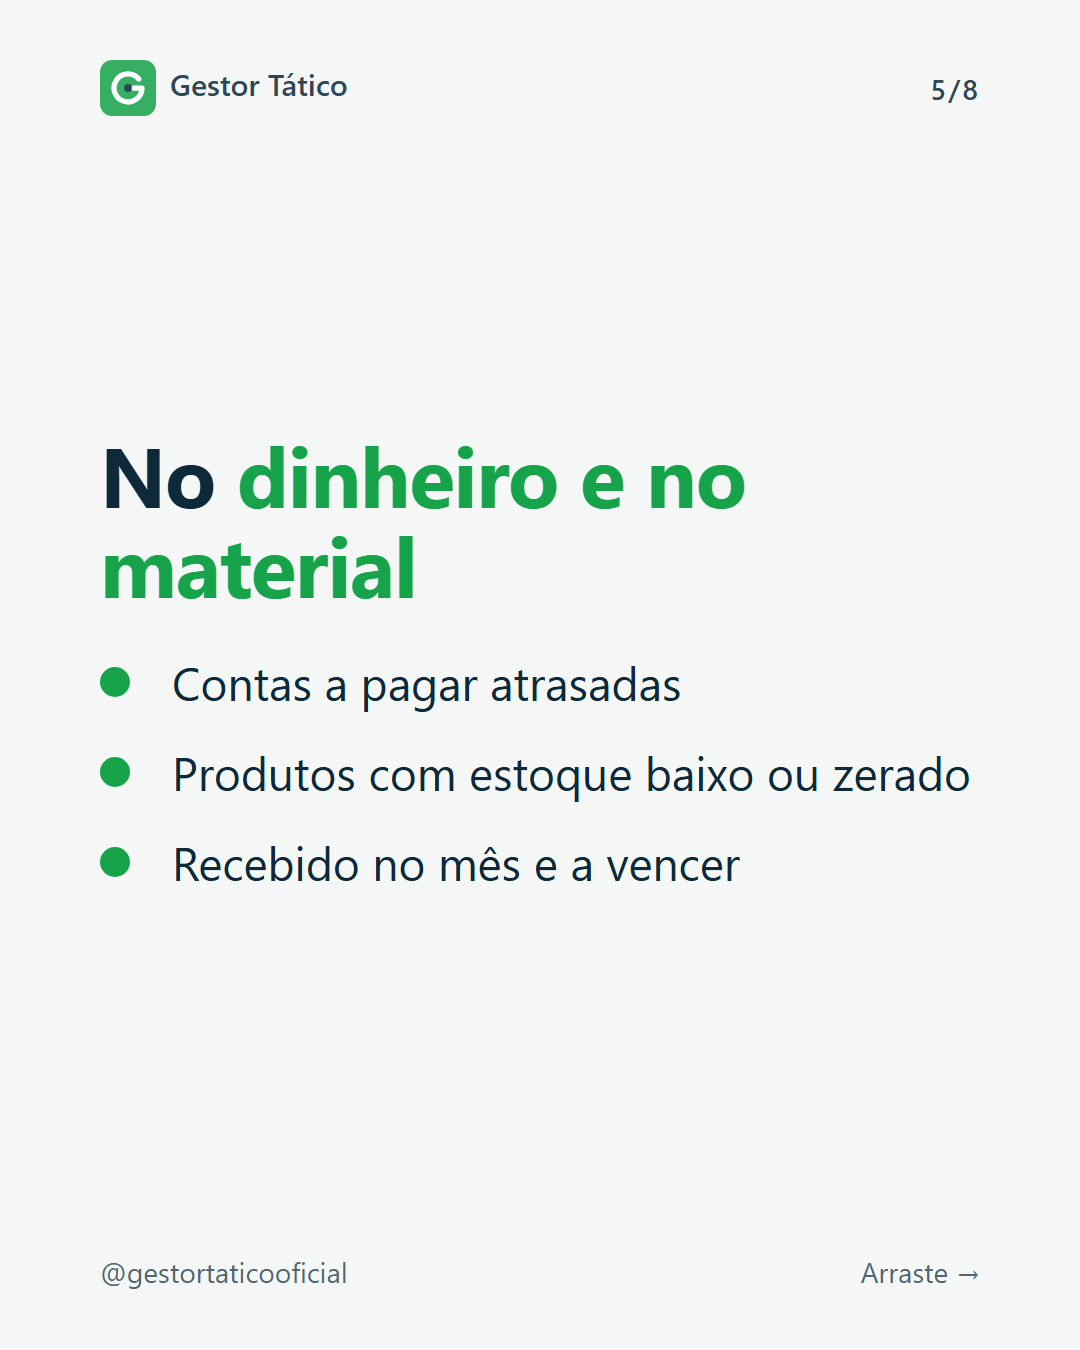
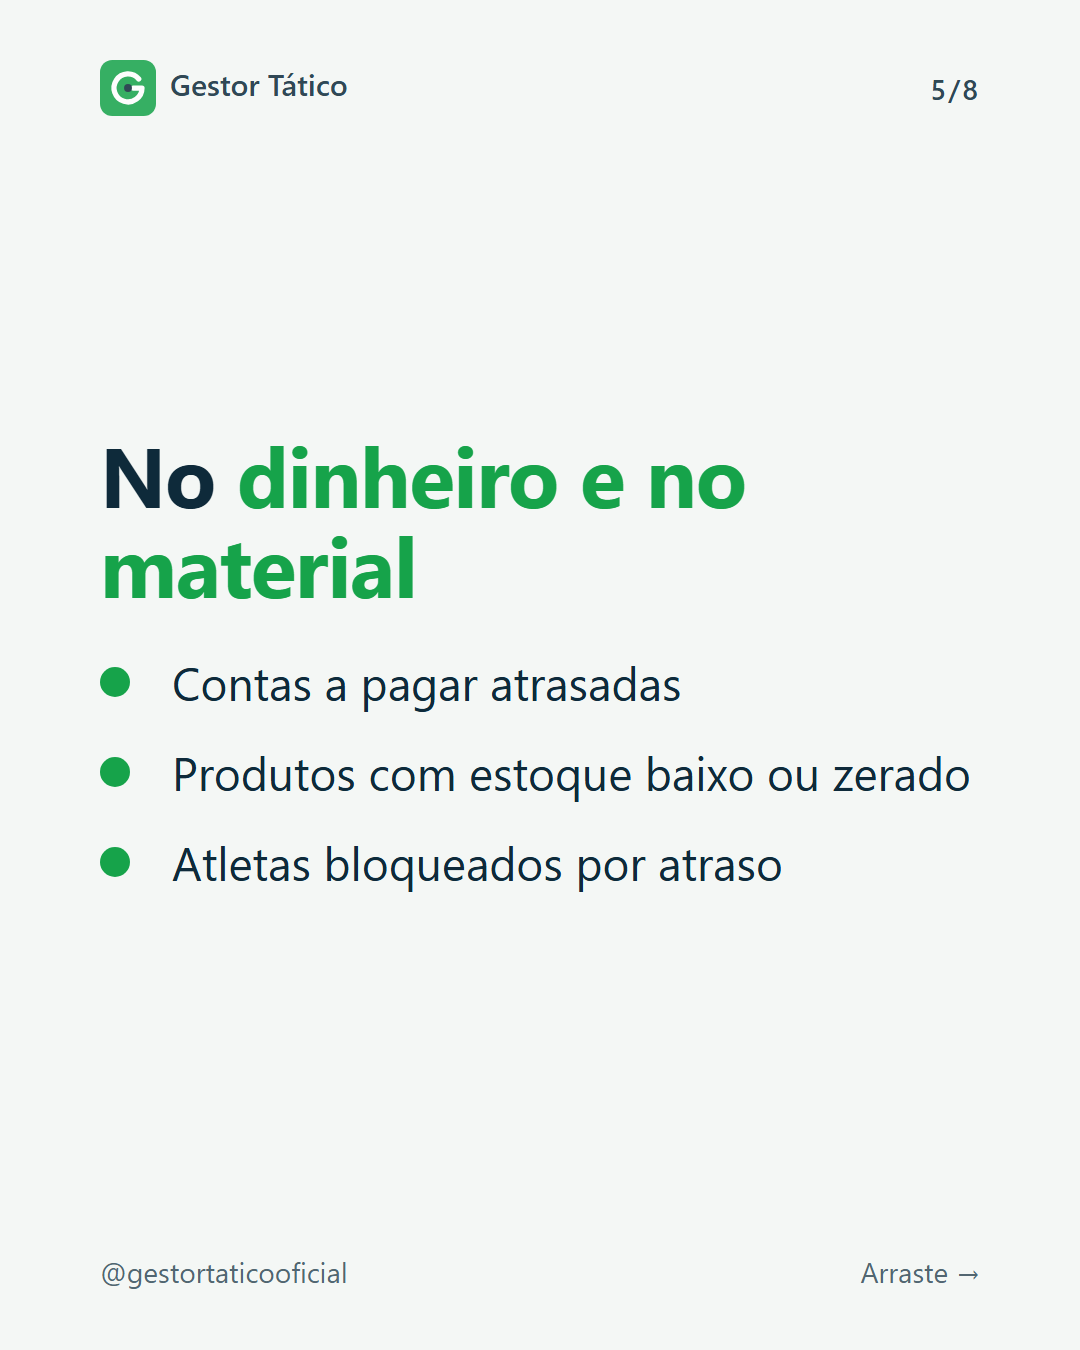
Instagram: semana de 16/11 no calendário e slide 5 do painel com atletas bloqueados

Changed region(s): [[0.1528, 0.6222, 0.7333, 0.6533]]

diff --git a/docs/marca/instagram/decks.js b/docs/marca/instagram/decks.js
@@ -59,7 +59,7 @@ CTA],
 {h:'Problema não avisa <em>quando chega</em>',p:'O atleta some, o atestado vence, a bola acaba, a conta atrasa. Cada coisa mora num caderno, e você descobre tarde.'},
 {t:'claro',h:'Só aparece o que <em>tem ocorrência</em>',p:'O painel lista os alertas do dia. Sem nenhum, mostra que está tudo em dia. Nada de tela cheia de zero.'},
 {h:'No <em>cuidado com os atletas</em>',list:['Atletas com 3 ou mais faltas seguidas','Atestado médico vencido ou perto de vencer','Matrículas aguardando o aceite da família']},
-{t:'claro',h:'No <em>dinheiro e no material</em>',list:['Contas a pagar atrasadas','Produtos com estoque baixo ou zerado','Recebido no mês e a vencer']},
+{t:'claro',h:'No <em>dinheiro e no material</em>',list:['Contas a pagar atrasadas','Produtos com estoque baixo ou zerado','Atletas bloqueados por atraso']},
 {h:'Cada alerta é um <em>atalho</em>',p:'Tocou no aviso, abre a lista já filtrada: os atletas faltosos, os atestados vencidos, os produtos sem estoque.'},
 {t:'claro',h:'Mais de uma <em>unidade</em>?',p:'Veja a visão geral ou escolha uma unidade para recortar o painel.',n:'O estoque e as contas a pagar seguem consolidados, não por unidade.'},
 CTA],

diff --git a/docs/marca/instagram/semanas/2026-11-16/rascunhos.md b/docs/marca/instagram/semanas/2026-11-16/rascunhos.md
@@ -27,7 +27,7 @@ Obs.: a semana de 09/11 já estava coberta (Reel, Portal, Saúde, pergunta); est
 - 3+ faltas seguidas, atestado vencido/vencendo em 30 dias, matrículas aguardando aceite, contas a pagar atrasadas, estoque baixo/zerado → `CLAUDE.md` (Chamada e frequência; Validade do atestado; LGPD termo de matrícula; Dashboard; Estoque).
 - Cada item é link para a tela já filtrada → `CLAUDE.md` ("Filtros por query string").
 - Visão geral × por unidade; estoque e contas seguem consolidados → `CLAUDE.md` (Filtro por Unidade). Dito no slide 7.
-- "Recebido no mês e a vencer" (slide 5) vem dos cartões financeiros do painel; aparecem só para perfis do financeiro. Não é número, é recurso.
+- "Atletas bloqueados por atraso" (slide 5, no lugar de "Recebido no mês e a vencer", trocado em 09/11/2026 porque aquele item só aparece para o financeiro) → `CLAUDE.md` (Bloqueio por atraso; Dashboard → Atenção). **O bloqueio só aparece se o clube configurou os dias de atraso** em Configurações → Financeiro.
 
 ---
 
@@ -83,7 +83,7 @@ Obs.: a semana de 09/11 já estava coberta (Reel, Portal, Saúde, pergunta); est
 
 ## Pendências para o Cleber confirmar
 1. **Estoque é restrito** a Admin, Coordenador e Financeiro (professor/secretaria-treinador não lança). Se a legenda sugerir que o treinador lança saída de bola, não vale. O texto atual não diz isso.
-2. **Slide 5 do painel** ("Recebido no mês e a vencer"): só aparece para quem é do financeiro, não para o professor. Se preferir, troco por outro item.
+2. ~~**Slide 5 do painel**~~ Resolvido em 09/11/2026: o item "Recebido no mês e a vencer" foi trocado por "Atletas bloqueados por atraso" e os PNGs foram reexportados.
 3. **Slide 4 do painel**: "Matrículas aguardando o aceite da família" vale para quem já usa o termo de matrícula no portal.
 4. Os três temas são do segmento clube (campeonato, súmula). Coerente com o público do perfil.
 5. Nenhum post fala de Pix automático, boleto, cartão, WhatsApp, preço ou cupom.

diff --git a/docs/marca/instagram/calendario.md b/docs/marca/instagram/calendario.md
@@ -19,6 +19,9 @@ Os carrosséis estão prontos em `png/` (1080×1350): `mensalidade-1..8.png`, `c
 | Ter 10/11 | **Carrossel** | Portal da Família (rascunho em `semanas/2026-11-09/rascunhos.md`, arte `png/20261109-portal-*.png`) |
 | Qua 11/11 | **Carrossel** | Ficha de saúde e atestado (arte `png/20261111-saude-*.png`) |
 | Sex 13/11 | Post único | Pergunta ao público: como os pais ficam sabendo da convocação (arte `png/20261113-pergunta-1.png`) |
+| Seg 16/11 | **Carrossel** | O que pede atenção: painel da coordenação (rascunho em `semanas/2026-11-16/rascunhos.md`, arte `png/20261116-atencao-*.png`) |
+| Qua 18/11 | **Carrossel** | Campanha e artilharia do campeonato (arte `png/20261118-campeonato-*.png`) |
+| Sex 20/11 | Post único | Estoque, com pergunta nos comentários (arte `png/20261120-estoque-1.png`) |
 
 ## Sex 23/10: apresentação (publicado)
 
